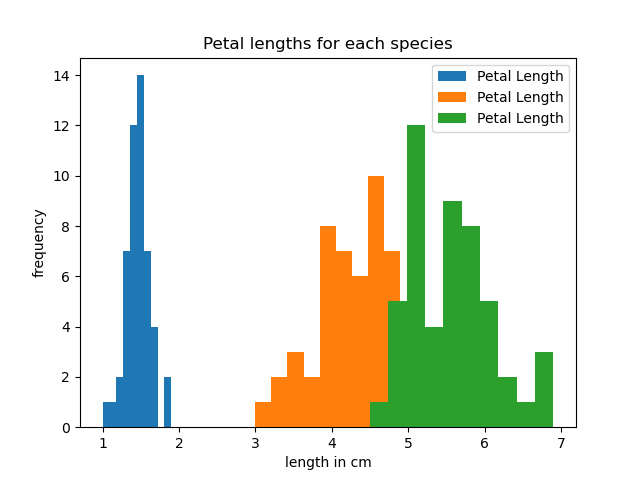
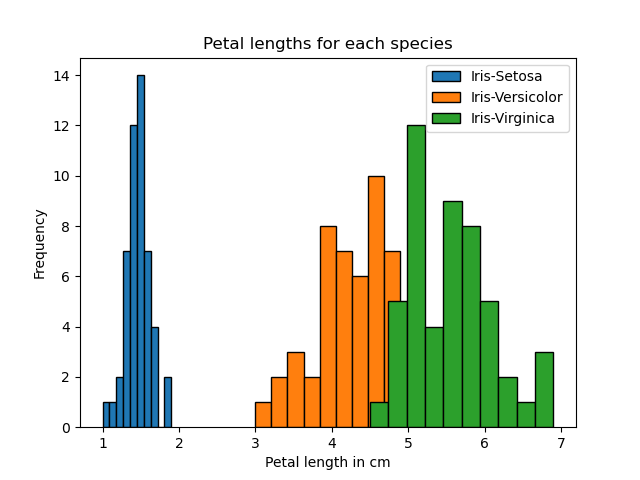
Fixed Histogram functions so they will display for each data type, still unhappy with using very inefficient code setup. Attempted to implement logging of summary as a text file, will implement this next

diff --git a/PANDS-Project/analysis.py b/PANDS-Project/analysis.py
@@ -25,13 +25,40 @@
 import numpy as np
 import pandas as pd
 import matplotlib.pyplot as pt
-import matplotlib.patches as mpatches
+import pylab as plt
+from matplotlib.patches import Rectangle
 
 ## Definitions of variables
 path = "../PANDS-Project/"
-FILENAME ="iris.txt"
+FILENAME ="iris.data"
+null = 0
 
 ## Subroutine definitions
+
+'''
+#Read if output file is present
+FILENAME = "Summary.txt"
+def readSummary():
+    try:
+        with open(FILENAME) as f:
+            summary = int(f.read())
+            return summary
+    except IOError:
+        # this file will be created when we write back.
+        # no file assumes first time running
+        # ie no summary performed before this execution
+        print ("Summary.txt file does not exist, it will be be created now")
+        return null
+
+def writeSummary(summary):
+    with open(FILENAME, "wt") as f:
+    # write takes a string so we need to convert
+        f.write(str(summary))
+
+'''
+
+
+
 
 #def readDict():
     # this will throw an error if the file does not exist
@@ -95,11 +122,43 @@ pt.savefig('histogramSetosa.png')
 pt.show()
 '''
 
-# Now i want to slice the histograms the other way, showing 1 variable: (length of petal etc) for each species for comparison
-ax10 = df1.plot(kind = 'hist', label = 'Setosa', column =["Petal Length","Species"], title = 'Petal lengths for each species', xlabel = 'length in cm', ylabel = 'frequency')
-ax11 = df2.plot(kind = 'hist', label = 'Versicolor', column =["Petal Length","Species"], xlabel = 'length in cm', ylabel = 'frequency', ax = ax10)
-ax12 = df3.plot(kind = 'hist', label = 'Virginica', column =["Petal Length","Species"], xlabel = 'length in cm', ylabel = 'frequency', ax = ax10)
-
-
+# Now i want to slice the historams the other way, showing 1 variable: (length of petal etc) for each species for comparison
+# for petal length: 
+ax10 = df1.plot(kind = 'hist', label = 'Iris-Setosa', column =["Petal Length","Species"], title = 'Petal lengths for each species', xlabel = 'Petal length in cm', ylabel = 'Frequency',edgecolor = "black")
+ax11 = df2.plot(kind = 'hist', label = 'Iris-Versicolor', column =["Petal Length","Species"], xlabel = 'Petal length in cm', ylabel = 'Frequency',edgecolor = "black", ax = ax10)
+ax12 = df3.plot(kind = 'hist', label = 'Iris-Virginica', column =["Petal Length","Species"], xlabel = 'Petal length in cm', ylabel = 'Frequency', edgecolor = "black", ax = ax10)
+labels = "Iris-Setosa", "Iris-Versicolor", "Iris-Virginica"
+pt.legend(labels)
 pt.savefig('HistogramPetalLenght.png')
+#pt.show()
+
+#for petal width:
+ax13 = df1.plot(kind = 'hist', label = 'Iris-Setosa', column =["Petal Width","Species"], title = 'Petal widths for each species', xlabel = 'Petal width in cm', ylabel = 'Frequency',edgecolor = "black")
+ax14 = df2.plot(kind = 'hist', label = 'Iris-Versicolor', column =["Petal Width","Species"], xlabel = 'Petal width in cm', ylabel = 'Frequency',edgecolor = "black", ax = ax13)
+ax15 = df3.plot(kind = 'hist', label = 'Iris-Virginica', column =["Petal Width","Species"], xlabel = 'Petal width in cm', ylabel = 'Frequency', edgecolor = "black", ax = ax13)
+pt.legend(labels)
+pt.savefig('HistogramPetalWidth.png')
+#pt.show()
+
+#for sepal length:
+ax16 = df1.plot(kind = 'hist', label = 'Iris-Setosa', column =["Sepal Length","Species"], title = 'Sepal lengths for each species', xlabel = 'Sepal length in cm', ylabel = 'Frequency',edgecolor = "black")
+ax17 = df2.plot(kind = 'hist', label = 'Iris-Versicolor', column =["Sepal Length","Species"], xlabel = 'Sepal length in cm', ylabel = 'Frequency',edgecolor = "black", ax = ax16)
+ax18 = df3.plot(kind = 'hist', label = 'Iris-Virginica', column =["Sepal Length","Species"], xlabel = 'Sepal length in cm', ylabel = 'Frequency', edgecolor = "black", ax = ax16)
+pt.legend(labels)
+pt.savefig('HistogramSepalLenght.png')
+#pt.show()
+
+# for sepal width:
+ax19 = df1.plot(kind = 'hist', label = 'Iris-Setosa', column =["Sepal Width","Species"], title = 'Sepal Widths for each species', xlabel = 'Sepal Width in cm', ylabel = 'Frequency',edgecolor = "black")
+ax20 = df2.plot(kind = 'hist', label = 'Iris-Versicolor', column =["Sepal Width","Species"], xlabel = 'Sepal Width in cm', ylabel = 'Frequency',edgecolor = "black", ax = ax19)
+ax21 = df3.plot(kind = 'hist', label = 'Iris-Virginica', column =["Sepal Width","Species"], xlabel = 'Sepal Width in cm', ylabel = 'Frequency', edgecolor = "black", ax = ax19)
+pt.legend(labels)
+pt.savefig('HistogramSepalWidth.png')
 pt.show()
+
+
+#summary = readSummary()
+summary = describe
+print(summary)
+#print (f"Description saved in Summary.txt file") 
+#writeSummary(summary)
